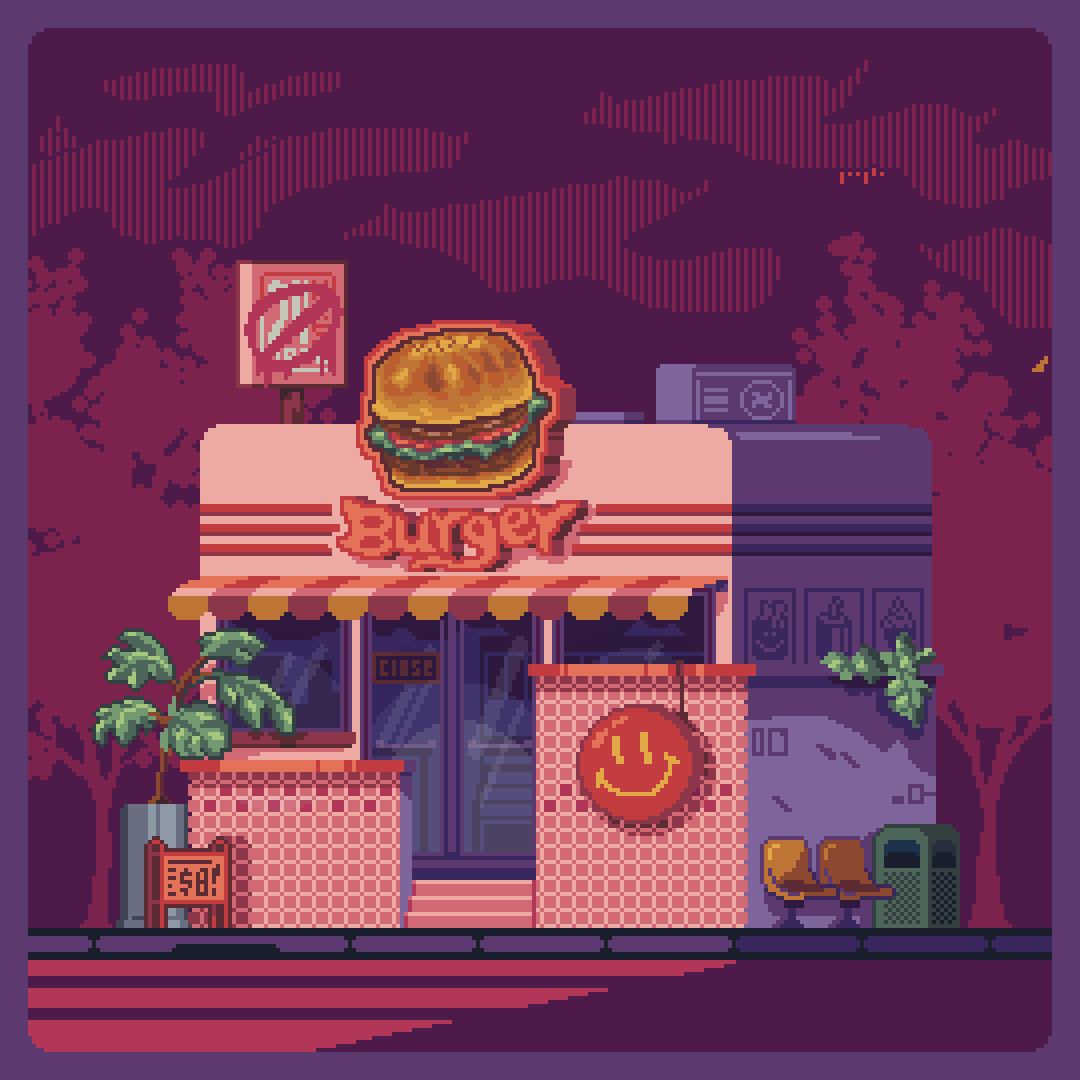
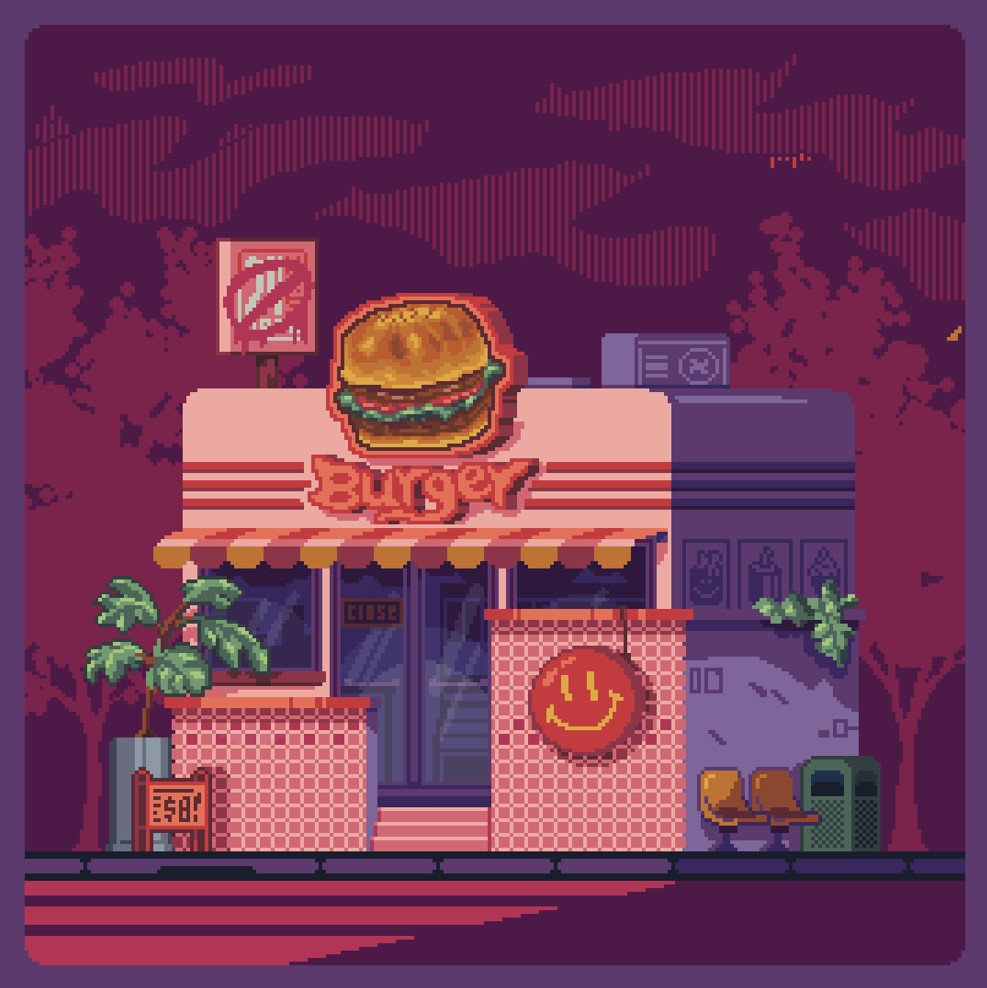
Image conflicts with welcome text but who needs it anyway?

diff --git a/src/RestaurantKiosk.java b/src/RestaurantKiosk.java
@@ -189,6 +189,7 @@ public class RestaurantKiosk {
                 cardLayout.show(mainPanel, "Email Login");
             }
         });
+
         // Add action listener to the "Login with Phone" button
         phoneLoginButton.addActionListener(new ActionListener() {
             @Override
@@ -214,12 +215,15 @@ public class RestaurantKiosk {
         panel.add(buttonPanel, BorderLayout.CENTER);
 
         // Image label
-        ImageIcon mcburgerIcon = new ImageIcon(new ImageIcon("src//McBurger.jpg").getImage().getScaledInstance(512, 512, Image.SCALE_SMOOTH));
+        ImageIcon mcburgerIcon = new ImageIcon(new ImageIcon("src/McBurger.jpg").getImage().getScaledInstance(256, 256, Image.SCALE_SMOOTH));
         JLabel mcburgerLabel = new JLabel(mcburgerIcon);
         mcburgerLabel.setAlignmentX(Component.CENTER_ALIGNMENT);
 
-        // Add the image label to the bottom of the panel
-        panel.add(mcburgerLabel, BorderLayout.SOUTH);
+        // Add the image label to the bottom center of the panel
+        JPanel imagePanel = new JPanel();
+        imagePanel.add(mcburgerLabel);
+        imagePanel.setAlignmentY(-1.5F);
+        panel.add(imagePanel, BorderLayout.PAGE_START);
 
         // Add the "Change Language" button to the bottom left
         JPanel bottomPanel = new JPanel(new BorderLayout());
@@ -357,37 +361,6 @@ public class RestaurantKiosk {
         button.setHorizontalTextPosition(SwingConstants.CENTER);
         button.setVerticalTextPosition(SwingConstants.BOTTOM);
 
-        button.addActionListener(new ActionListener() {
-            @Override
-            public void actionPerformed(ActionEvent e) {
-                currentItemName = itemName;
-                currentItemPrice = itemPrice;
-                switch (itemName) {
-                    case "Burger":
-                        cardLayout.show(mainPanel, "Customize Burger");
-                        break;
-                    case "Pizza":
-                        cardLayout.show(mainPanel, "Customize Pizza");
-                        break;
-                    case "Pasta":
-                        cardLayout.show(mainPanel, "Customize Pasta");
-                        break;
-                    case "Salad":
-                        cardLayout.show(mainPanel, "Customize Salad");
-                        break;
-                }
-                mainPanel.revalidate();
-                mainPanel.repaint();
-            }
-        });
-        return button;
-    }
-
-
-
-    // Create Menu Item Button
-    private JButton createMenuItemButton(String itemName, double itemPrice) {
-        JButton button = new JButton(itemName + " - $" + itemPrice);
         button.addActionListener(new ActionListener() {
             @Override
             public void actionPerformed(ActionEvent e) {
